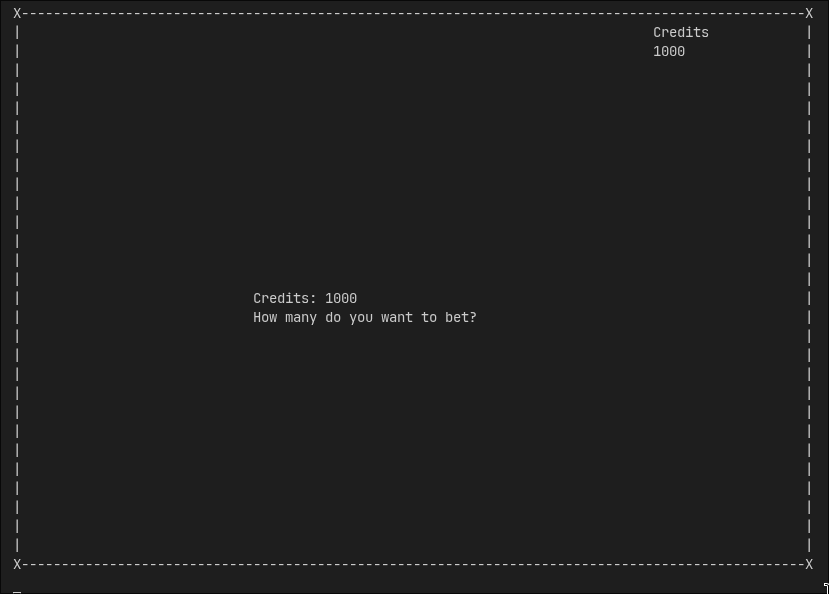
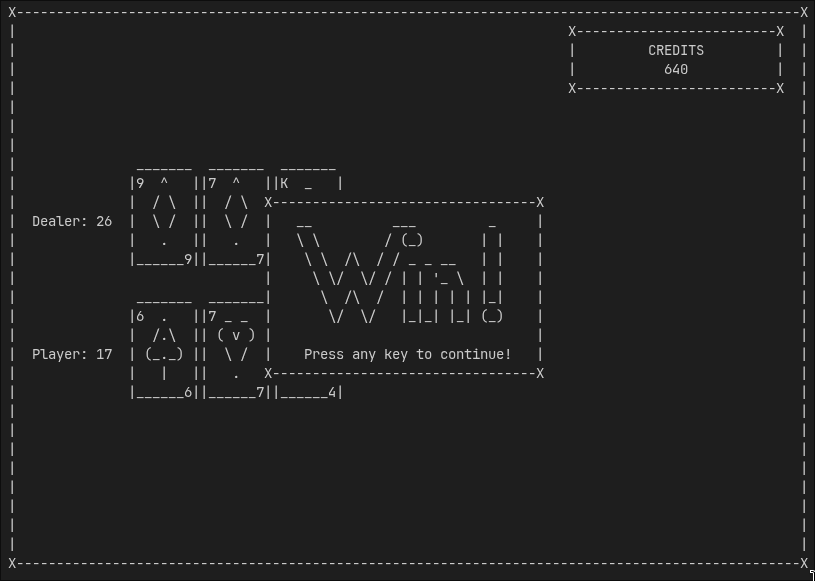
updated graphics and handled deck refill

diff --git a/src/gamemanager/gamemanager.py b/src/gamemanager/gamemanager.py
@@ -32,25 +32,30 @@ class GameManager:
 
     def update_game_status(self):
         self.frame.clear_frame()
-
-        self.frame.insert_element(80, 1, f"{'Credits':<15}\n{self.player.credits:<15}")
+        credits_text = f"""
+X-------------------------X
+|         CREDITS         |
+|{self.player.credits: ^25}|
+X-------------------------X
+"""
+        self.frame.insert_element(99-29, 1, credits_text)
 
         if len(self.dealer.hand) > 0:
             for i, card in enumerate(self.dealer.hand):
-                self.frame.insert_element(10 + ((9 * i)), 5, str(card))
-            self.frame.insert_element(3, 8, f"{self.dealer.hand_value()}")
+                self.frame.insert_element(15 + ((9 * i)), 8, str(card))
+            self.frame.insert_element(3, 11, f"Dealer: {self.dealer.hand_value()}")
 
         if len(self.player.hand) > 0:
             for i, card in enumerate(self.player.hand):
-                self.frame.insert_element(10 + ((9 * i)), 15, str(card))
-            self.frame.insert_element(3, 18, f"{self.player.hand_value()}")
+                self.frame.insert_element(15 + ((9 * i)), 15, str(card))
+            self.frame.insert_element(3, 18, f"Player: {self.player.hand_value()}")
 
         self.frame.draw_frame()
 
     def __next_round(self):
-        # TODO: Handle empty deck
         if self.deck.deck_size < (self.deck.deck_size_init * 0.25):
-            print("Need to restock the deck!")
+            self.deck.create(4)
+            self.deck.shuffle()
 
         self.player.status = PlayerStatus.PLAYING
         self.player.bet = 0
@@ -90,84 +95,49 @@ class GameManager:
 
         else:
             raise Exception("Unknown game status")
+        
+    def __next_turn(self) -> bool:
+        self.update_game_status()
+        if self.player.status == PlayerStatus.PLAYING:
+            self.player.play_turn(self.deck)
+            self.update_game_status()
+            if self.player.status == PlayerStatus.BUST:
+                return True
+        if self.dealer.status == PlayerStatus.PLAYING:
+            self.dealer.play_turn(self.deck)
+            self.update_game_status()
+        
+        self.update_game_status()
 
+        if not self.player.status == PlayerStatus.PLAYING and not self.dealer.status == PlayerStatus.PLAYING:
+            return True
+        else:
+            return False
 
     def __status_win(self):
-        self.frame.insert_element(25, 10, TEXT_WIN)
+        self.frame.insert_element(50-18, 15-5, TEXT_WIN)
         self.frame.draw_frame()
         input()
         self.__next_round()
 
     def __status_draw(self):
-        text = """
-  _____                       _ 
- |  __ \                     | |
- | |  | |_ __ __ ___      __ | |
- | |  | | '__/ _` \ \ /\ / / | |
- | |__| | | | (_| |\ V  V /  |_|
- |_____/|_|  \__,_| \_/\_/   (_)
-                                
-"""
-        self.frame.insert_element(25, 10, text)
+        self.frame.insert_element(50-19, 15-5, TEXT_DRAW)
         self.frame.draw_frame()
         input()
         self.__next_round()
 
     def __status_gameover(self):
-        text = """
-   _____                         ____                 
-  / ____|                       / __ \                
- | |  __  __ _ _ __ ___   ___  | |  | |_   _____ _ __ 
- | | |_ |/ _` | '_ ` _ \ / _ \ | |  | \ \ / / _ \ '__|
- | |__| | (_| | | | | | |  __/ | |__| |\ V /  __/ |   
-  \_____|\__,_|_| |_| |_|\___|  \____/  \_/ \___|_|   
-                                                      
-"""
-        self.frame.insert_element(25, 10, text)
+        self.frame.insert_element(50-30, 15-5, TEXT_GAMEOVER)
         self.frame.draw_frame()
 
     def __status_bust(self):
-        text = """
-  ____            _     _ 
- |  _ \          | |   | |
- | |_) |_   _ ___| |_  | |
- |  _ <| | | / __| __| | |
- | |_) | |_| \__ \ |_  |_|
- |____/ \__,_|___/\__| (_)
-                          
-"""
-        self.frame.insert_element(25, 10, text)
+        self.frame.insert_element(50-16, 15-5, TEXT_BUST)
         self.frame.draw_frame()
         input()
         self.__next_round()
 
     def __status_lost(self):
-        text = """
-  _               _     _ 
- | |             | |   | |
- | |     ___  ___| |_  | |
- | |    / _ \/ __| __| | |
- | |___| (_) \__ \ |_  |_|
- |______\___/|___/\__| (_)
-                          
-"""
-        self.frame.insert_element(25, 10, text)
+        self.frame.insert_element(50-16, 15-5, TEXT_LOST)
         self.frame.draw_frame()
         input()
         self.__next_round()
-    
-    def __next_turn(self) -> bool:
-        self.update_game_status()
-        if self.player.status == PlayerStatus.PLAYING:
-            self.player.play_turn(self.deck)
-            if self.player.status == PlayerStatus.BUST:
-                return True
-            self.update_game_status()
-        if self.dealer.status == PlayerStatus.PLAYING:
-            self.dealer.play_turn(self.deck)
-            self.update_game_status()
-        
-        if not self.player.status == PlayerStatus.PLAYING and not self.dealer.status == PlayerStatus.PLAYING:
-            return True
-        else:
-            return False

diff --git a/src/settings/settings.py b/src/settings/settings.py
@@ -10,50 +10,63 @@ UI_WIDTH = 100
 UI_HEIGHT = 30
 
 # Graphics
-# Cards from https://www.asciiart.eu/miscellaneous/playing-cards
-# Text from https://patorjk.com/software/taag/#p=display&f=Graffiti&t=Type+Something+&x=none&v=4&h=4&w=80&we=false
 TEXT_WIN = """
- __          ___         _ 
- \ \        / (_)       | |
-  \ \  /\  / / _ _ __   | |
-   \ \/  \/ / | | '_ \  | |
-    \  /\  /  | | | | | |_|
-     \/  \/   |_|_| |_| (_)
-                           
+X---------------------------------X
+|   __          ___         _     |
+|   \ \        / (_)       | |    |
+|    \ \  /\  / / _ _ __   | |    |
+|     \ \/  \/ / | | '_ \  | |    |
+|      \  /\  /  | | | | | |_|    |
+|       \/  \/   |_|_| |_| (_)    |
+|                                 |
+|    Press any key to continue!   |
+X---------------------------------X
 """
 TEXT_DRAW = """
-  _____                       _ 
- |  __ \                     | |
- | |  | |_ __ __ ___      __ | |
- | |  | | '__/ _` \ \ /\ / / | |
- | |__| | | | (_| |\ V  V /  |_|
- |_____/|_|  \__,_| \_/\_/   (_)
-                                
+X------------------------------------X
+|    _____                       _   |
+|   |  __ \                     | |  |
+|   | |  | |_ __ __ ___      __ | |  |
+|   | |  | | '__/ _` \ \ /\ / / | |  |
+|   | |__| | | | (_| |\ V  V /  |_|  |
+|   |_____/|_|  \__,_| \_/\_/   (_)  |
+|                                    |
+|     Press any key to continue!     |
+X------------------------------------X
 """
 TEXT_GAMEOVER = """
-   _____                         ____                 
-  / ____|                       / __ \                
- | |  __  __ _ _ __ ___   ___  | |  | |_   _____ _ __ 
- | | |_ |/ _` | '_ ` _ \ / _ \ | |  | \ \ / / _ \ '__|
- | |__| | (_| | | | | | |  __/ | |__| |\ V /  __/ |   
-  \_____|\__,_|_| |_| |_|\___|  \____/  \_/ \___|_|   
-                                                      
+X----------------------------------------------------------X
+|     _____                         ____                   |
+|    / ____|                       / __ \                  |
+|   | |  __  __ _ _ __ ___   ___  | |  | |_   _____ _ __   |
+|   | | |_ |/ _` | '_ ` _ \ / _ \ | |  | \ \ / / _ \ '__|  |
+|   | |__| | (_| | | | | | |  __/ | |__| |\ V /  __/ |     |
+|    \_____|\__,_|_| |_| |_|\___|  \____/  \_/ \___|_|     |
+|                                                          |
+|                Thank you for playing!                    |
+X----------------------------------------------------------X
 """
 TEXT_BUST = """
-  ____            _     _ 
- |  _ \          | |   | |
- | |_) |_   _ ___| |_  | |
- |  _ <| | | / __| __| | |
- | |_) | |_| \__ \ |_  |_|
- |____/ \__,_|___/\__| (_)
-                          
+X-------------------------------X
+|    ____            _     _    |
+|   |  _ \          | |   | |   |
+|   | |_) |_   _ ___| |_  | |   |
+|   |  _ <| | | / __| __| | |   |
+|   | |_) | |_| \__ \ |_  |_|   |
+|   |____/ \__,_|___/\__| (_)   |
+|                               |
+|  Press any key to continue!   |
+X-------------------------------X
 """
 TEXT_LOST = """
-  _               _     _ 
- | |             | |   | |
- | |     ___  ___| |_  | |
- | |    / _ \/ __| __| | |
- | |___| (_) \__ \ |_  |_|
- |______\___/|___/\__| (_)
-                          
+X-------------------------------X
+|    _               _     _    |
+|   | |             | |   | |   |
+|   | |     ___  ___| |_  | |   |
+|   | |    / _ \/ __| __| | |   |
+|   | |___| (_) \__ \ |_  |_|   |
+|   |______\___/|___/\__| (_)   |
+|                               |
+|  Press any key to continue!   |
+X-------------------------------X
 """

diff --git a/src/player/player.py b/src/player/player.py
@@ -78,39 +78,58 @@ class User(Player):
             self.status = PlayerStatus.GAMEOVER
 
     def place_bet(self):
-        text = f"Credits: {str(self.credits):<19}\nHow many do you want to bet?"
+        text = f"""
+X-----------------------------------X
+| CURRENT CREDITS: {str(self.credits): <17}|
+|                                   |
+| How many do you want to bet?      |
+|                                   |
+|                                   |
+X-----------------------------------X
+"""
         self.gamemanager.frame.store_frame()
-        self.gamemanager.frame.insert_element(30, 15, text)
+        self.gamemanager.frame.insert_element(2, 22, text)
         self.gamemanager.frame.draw_frame()
         # Check valid input
         while True:
             try:
                 bet = int(input())
-                if bet and bet <= self.credits:
+                if bet <= self.credits and bet > 0:
                     self.bet = bet
                     break
+                else:
+                    raise Exception
             except:
-                self.gamemanager.frame.insert_element(1, 28, "Please insert valid bet!")
+                self.gamemanager.frame.insert_element(4, 27, "Please insert valid bet!")
                 self.gamemanager.frame.draw_frame()
 
         self.gamemanager.frame.restore_frame()
         self.gamemanager.frame.draw_frame()
 
     def select_action(self) -> PlayerAction:
-        text = f"1) Hit  \n2) Stand"
+        text = f"""
+X-----------------------------------X
+| ACTIONS:                          |
+|                                   |
+| 1) Hit                            |
+| 2) Stand                          |
+|                                   |
+X-----------------------------------X
+"""
         self.gamemanager.frame.store_frame()
-        self.gamemanager.frame.insert_element(10, 25, text)
+        self.gamemanager.frame.insert_element(2, 22, text)
         self.gamemanager.frame.draw_frame()
         action = None
         while True:
             try:
                 action = int(input()) - 1
-                print(f"Action: {action}")
                 if action in PlayerAction:
                     action = PlayerAction(action)
                     break
+                else:
+                    raise Exception
             except:
-                self.gamemanager.frame.insert_element(1, 28, "Please select valid action!")
+                self.gamemanager.frame.insert_element(4, 27, "Please select valid action!")
                 self.gamemanager.frame.draw_frame()
         
         self.gamemanager.frame.restore_frame()

diff --git a/src/ui/frame.py b/src/ui/frame.py
@@ -47,11 +47,14 @@ class Frame:
 
     def insert_element(self, x: int = 0, y: int = 0, text: str = None):
         lines = text.splitlines()
-        lines = [x for x in lines if x != ""] # Remove whitespace
-        width = len(lines[0])
+        if lines[0] == "":
+            del lines[0]
+        width = max([len(line) for line in lines])
         height = len(lines)
-        print(lines)
+        lines = [f"{line: <{width}}" for line in lines]
 
         for row in range(height):
             for col in range(width):
+                if row + y >= self.height or row + y < 0 or col + x >= self.width or col + x < 0:
+                    continue
                 self.frame[row + y][col + x] = lines[row][col]

diff --git a/README.md b/README.md
@@ -9,5 +9,11 @@ It is as the name suggests a very simple implementation of Blackjack running in 
 
 To run it just clone the repo and run `python3 src/main.py`
 
-![image](screenshot_01.png)
-![image](screenshot_02.png)
+The program expects simple terminal input in numeric form.
+
+![gameplay-screen](screenshot_00.png)
+![win_screen](screenshot_01.png)
+![loss-screen](screenshot_02.png)
+
+Text from [here](https://patorjk.com/software/taag/#p=display&f=Graffiti&t=Type+Something+&x=none&v=4&h=4&w=80&we=false)
+Graphics from [here](https://www.asciiart.eu/miscellaneous/playing-cards)
